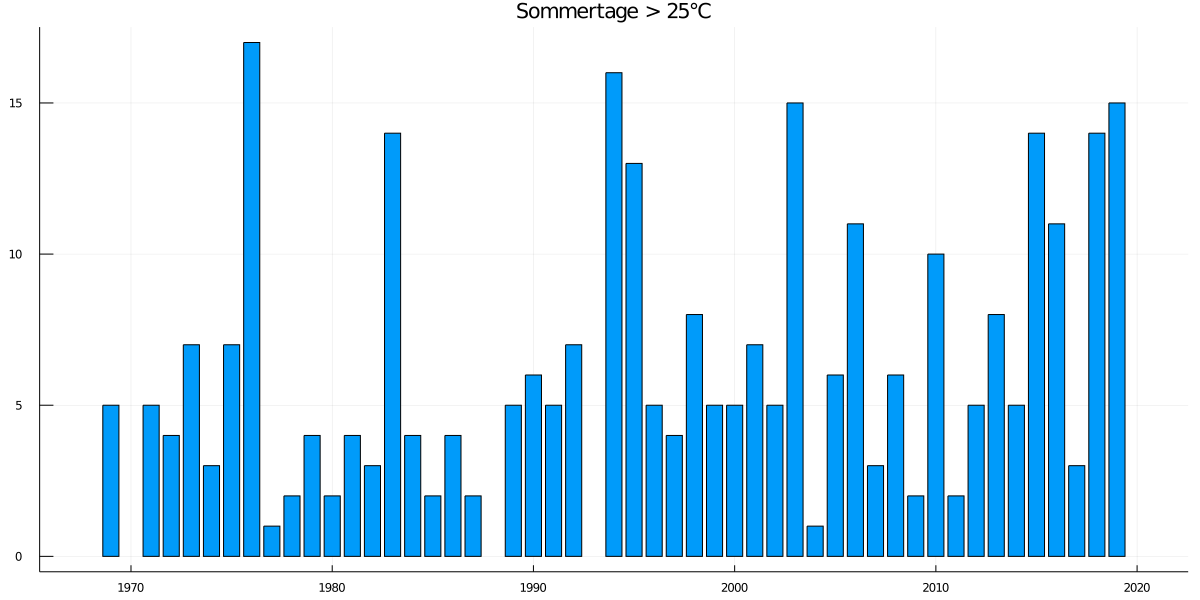
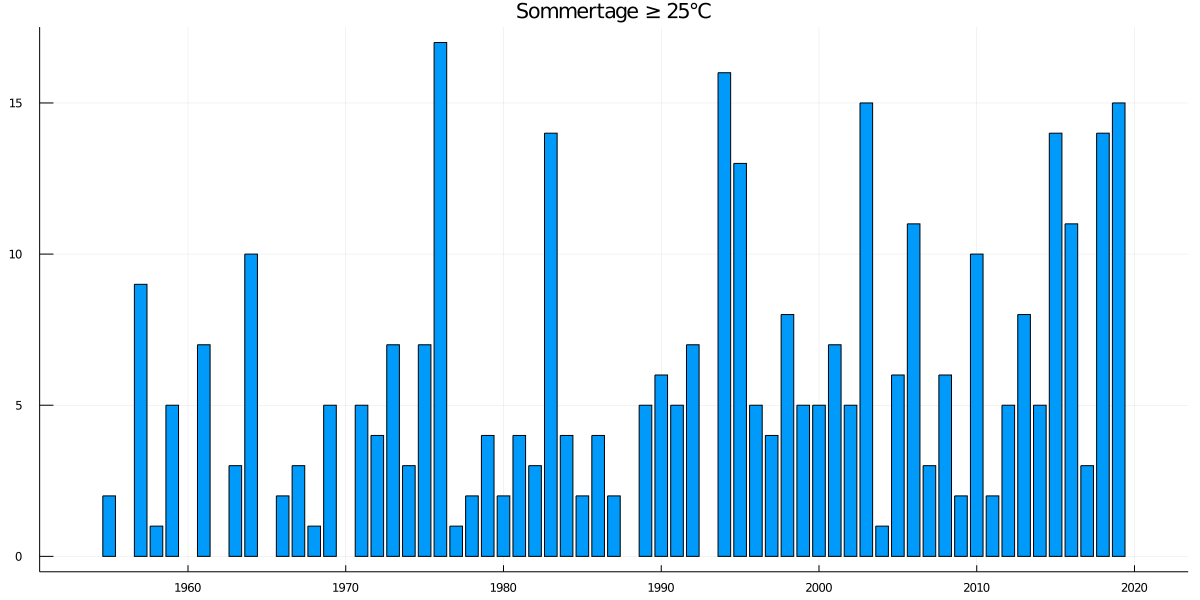
Update von README

diff --git a/README.md b/README.md
@@ -1,37 +1,34 @@
 ### Hi, hier geht es ums Wetter
 
-#Hallo!
+Der [Deutsche Wetterdienst](https://dwd.de) stellt in einem Open Data Projekt die Wetterdaten seiner Wetterstationen zur Verfügung. 
 
-Der [Deutsche Wetterdienst](https://dwd.de) stellt in einem Open Data Projekt die Wetterdaten seiner Wetterstationen zur Verfügung. :+1 
+In einem ersten Anlauf wurden die Wetterdaten des [Kahler Asten](https://www.openstreetmap.org/#map=18/51.18016/8.48942) von mit ausgewertet. Der ausgewertete Datensatz beginnt am **01.01.1955** und reicht bis zum **31.12.2019**.
+Die Rohdaten reichen zurück bis ins Jahr 1929 sind aber sehr lückenhaft.  Aus diesem Grund habe ich sie in dieser Darstellung zunächst nicht berücksichtigt. Durch Kapfhandlungen am Ende des Zweiten Weltkrieges wurde die Station sehr stark zerstört. Daher fehlen zwischen 1944 und 1954 die Daten komplett. Zum 01.01.1955 wurde der Betrieb dann wieder aufgenommen. 
 
-In einem ersten zuge wurden die Wetterdaten des [Kahler Asten](https://www.openstreetmap.org/#map=18/51.18016/8.48942) von mit ausgewertet. Der Datensatz beginnt am **01.01.1955** und reicht bis zum **31.12.2019**.
-Die Rohdaten reichen zurück bis ins Jahr 1929 sind aber sehr lückenhaft.  Aus diesem Grund habe ich sie in dieser Darstellung zunächst nicht berücksichtigt. So fehlen z.B. zwischen 1944 und 1954 die Daten komplett.
+In den betrachteten 64 Jahren wurde der tiefste Wert am 01.02.1956 mit -26.0°C aufgezeichnet. Der wärmste Tag war der 25.07.2019 mit 31,9°C. 
 
-####Die Temperaturdaten
+
+#### Die Temperaturdaten
 Dem Chart liegen die jeweiligen Tageshöchstwerte zugrunde. 
 
 ![Kahler Asten](KA-Temp_Max.png)
+ 
 
-Ein klarer Trend ist aus den Daten nicht zu erkennen. 
-
-####Sommertage
-Ein Sommertag is ein Tag mit Tageshöchstwerten ≥ 25°C.
+#### Sommertage
+Ein Sommertag ist ein Tag mit Tageshöchstwerten ≥ 25°C.
 
 ![Sommertage](KA-SommerTag.png)
 
-####Die Top Ten der Temperaturen
-  Datum    │ Temperatur
-----------------|------------
-2019-07-25  | 31.9       
-2003-08-12  │ 31.3       
-2003-08-07  │ 31.0       
-2015-07-04  │ 31.0       
-2006-07-20  │ 30.5        
-2018-08-07  │ 30.4       
-2019-07-24  │ 30.4       
-1994-08-05  │ 30.3       
-1992-08-09  │ 30.2       
-2003-08-08  │ 30.1       
+Bis zum Jahre 1970 kamen Sommertage auf dem Kahlen Asten immer wieder vor, aber es war unstetig. In den 1979er Jahre waren dann 2 bis 4 Tage über 25°C schon "Normal". Seit den 1990er Jahren sind es nun mehr schon 5 bis 7 Tage.Hier ergibt sich ein sehr klarer Trend. 
 
-hhh
 
+#### Die Niederschlagsmengen
+
+Das erste Bild Zeigt die Niederschlagsmengen auf Tagesbasis in mm/m². Für die Darstellung in Bild zwei wurden die Jahresniederschlagsmengen errechnet. 
+  
+![Niederschlag auf Tagesbasis](KA-Niederschlag.png)
+
+![Niederschlagsmengen auf Jahresbasis](KA-JahrNieSchla.png)
+
+
+**Wird Fortgesetzt .....**
